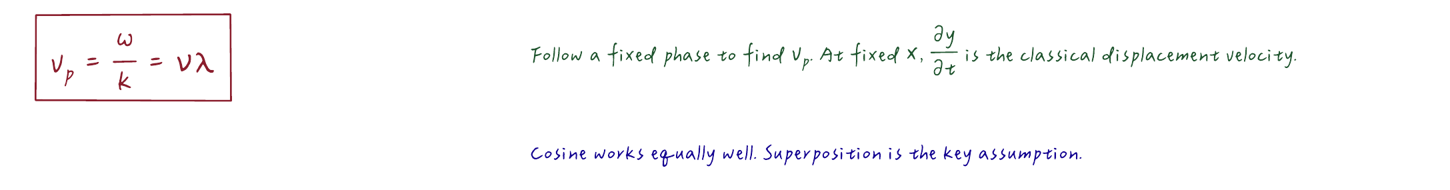
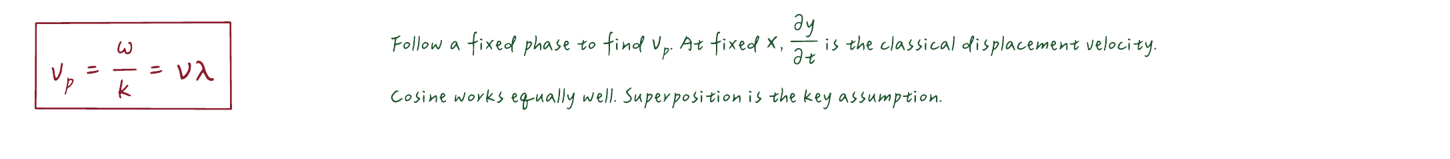
Compact and bottom-align deep-green phase notes

diff --git a/tools/font/verify_note_annotation_layout.py b/tools/font/verify_note_annotation_layout.py
@@ -63,5 +63,5 @@ if len(sys.argv)>1:
         for previous,current in zip(v.records,v.records[1:]):
             assert current['y']-current['asc']>previous['y']+previous['desc']
         assert block.y>max(r['y']+r['desc'] for r in v.records)
-    print('PASS: 51 English note paragraphs (50 green and one blue, including the spectrum note); native math ink enclosed; lines separated')
+    print('PASS: 51 English note paragraphs (all deep green, including the spectrum note); native math ink enclosed; lines separated')
 print('PASS: inline annotation wrapping, math spans and attached punctuation')

diff --git a/tools/font/README.md b/tools/font/README.md
@@ -92,7 +92,7 @@ The PDF keeps all 208 equation strings and font sizes. Integration checks cover 
 
 `note_annotation_layout.py` wraps prose with `$math$` spans using renderer-supplied native measurements. Math spans are indivisible; punctuation remains attached, each line uses a shared baseline, and tall fractions reserve their actual ascent/descent. The local notes adapter draws prose with the handwriting font and parses each math span through the existing math renderer, including hats, fractions and scripts.
 
-All 50 green annotations use English prose in deep green (`#20552F`), with 61 native math spans. All non-green text, 208 display equations and their sizes are preserved. The fifth sheet grows from 2530 to 2570 canvas units to retain footer clearance; there are still six sheets. The bilingual audit stays with the local lecture project at `analysis/english-annotations.json`.
+All 51 green annotations use English prose in deep green (`#20552F`), with 61 native math spans. All non-green text, 208 display equations and their sizes are preserved. The fifth sheet grows from 2530 to 2570 canvas units to retain footer clearance; there are still six sheets. The bilingual audit stays with the local lecture project at `analysis/english-annotations.json`.
 
 ```sh
 python tools/font/verify_note_annotation_layout.py
@@ -551,6 +551,8 @@ OFL 的 Reserved Font Name 不可用於修改版主要 Family／Full／PostScrip
 
 ### Side-note optical bottom alignment
 
-`annotation_top_for_bottom` positions a wrapped note using its final native glyph descent rather than padded line-box descent. The Fourier side note ends at the same visible lower edge as the blue sentence on its left. The renderer preserves the reserved flow height when shifting the note upward. The phase-velocity note and cosine/superposition sentence are size 15 in a right-hand column beside the boxed equation; their green and blue colors are preserved. Production checks cover all 51 note paragraphs (50 green, one blue).
+`annotation_top_for_bottom` positions a wrapped note using its final native glyph descent rather than padded line-box descent. The Fourier side note ends at the same visible lower edge as the blue sentence on its left. The renderer preserves the reserved flow height when shifting the note upward. The phase-velocity note and cosine/superposition sentence are size 15 in a right-hand column beside the boxed equation; both paragraphs use deep green (#20552F) with a compact 4.05-unit line-box gap. Production checks cover all 51 note paragraphs (all deep green).
 
 [Phase-velocity side notes](proofs/note-phase-velocity-side-notes.png) · [Fourier ink-bottom alignment](proofs/note-fourier-side-annotation.png).
+
+The phase notes are shifted 70 canvas units toward the box. Their combined paragraph heights and final glyph descent determine the first paragraph’s Y position, so the second paragraph ends at the red box’s outer lower edge. Both paragraphs remain size 15, deep green, with a 4.05-unit line-box gap.
